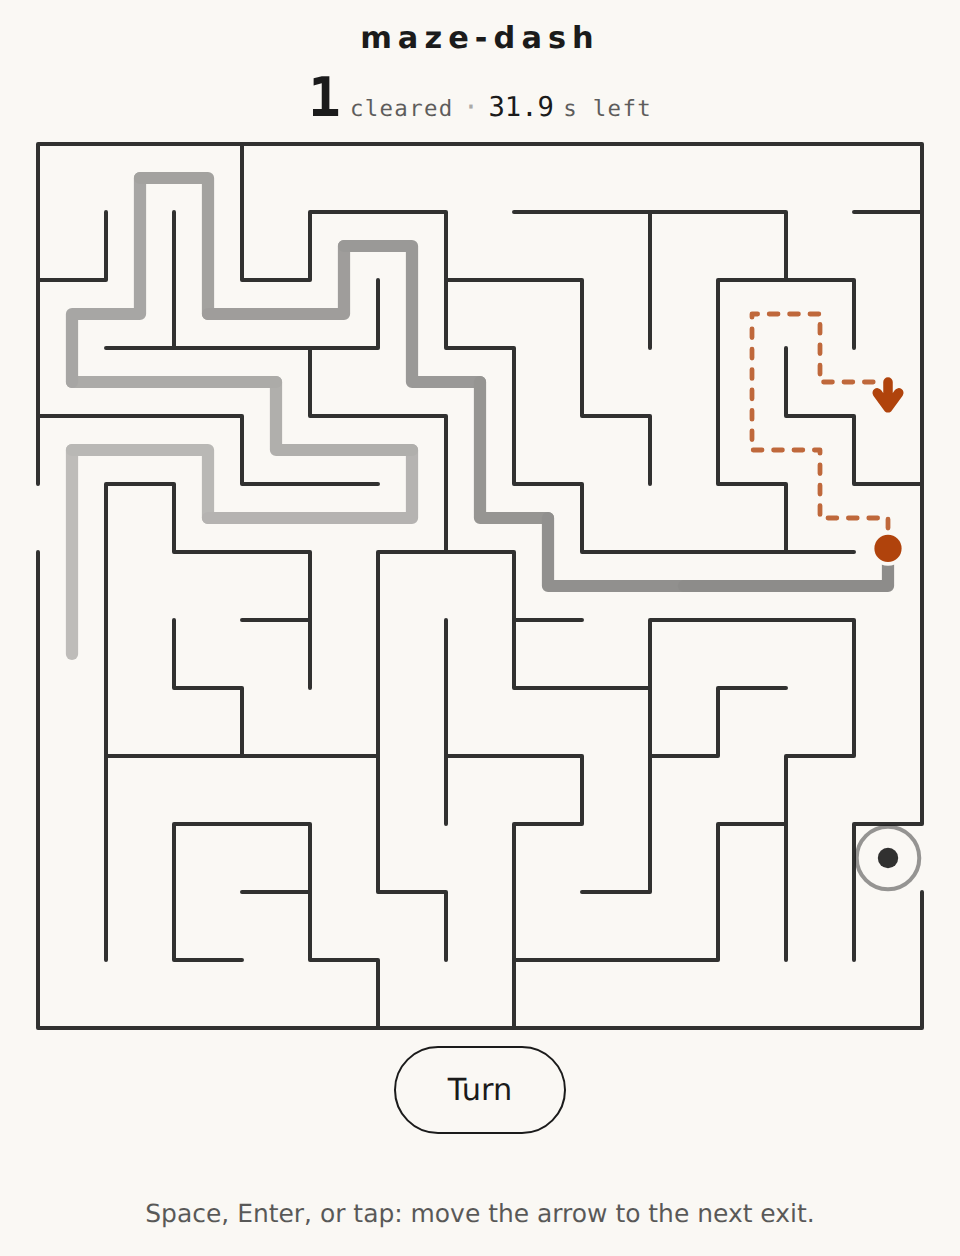
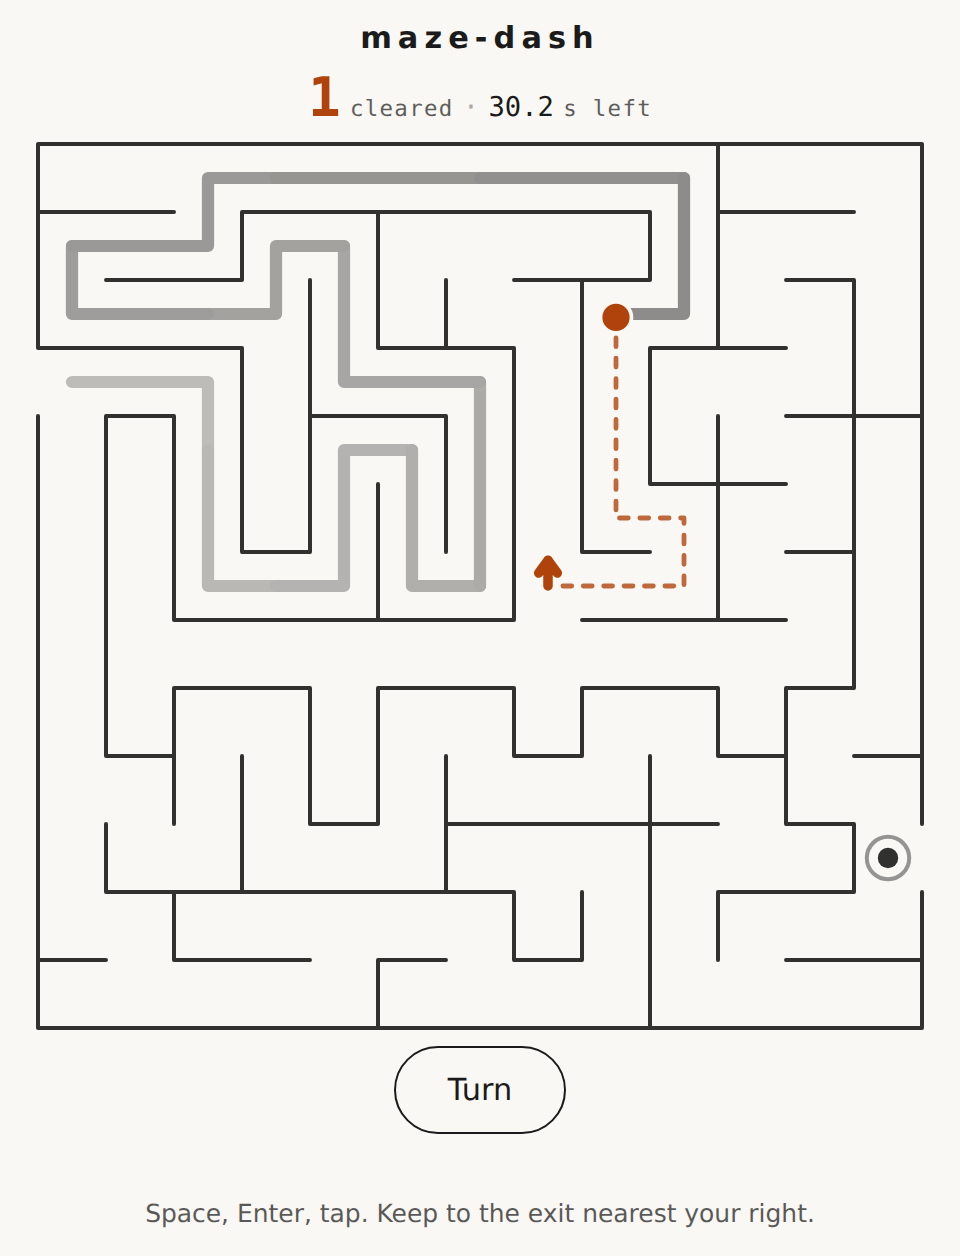
re-shoot the screenshot from the shipped build and describe the capture that is there

diff --git a/README.md b/README.md
@@ -2,7 +2,7 @@
 
 A one-button maze runner: the runner never stops, and the only thing you do is choose which way it turns.
 
-![A 13 by 13 maze in thin black lines on off-white paper. A grey trail winds through the top half of the board, doubling back on itself several times, darkest where the runner has just been and fading out towards its oldest end. The amber runner sits against the right-hand wall at the dark end of that trail. A dashed amber line traces the corridor ahead of it, up and to the left and then back down to the right, ending at an amber arrow that points downward. A small ringed cell sits against the right-hand wall near the bottom. The HUD above reads 1 cleared and 31.9 seconds left, and the button below says Turn.](screenshot.png)
+![A 13 by 13 maze in thin dark lines on off-white paper. A grey trail loops through the top half of the board and doubles back on itself several times; it is darkest where the runner is and fades almost to paper at its oldest end. The amber runner is a filled dot at that dark end, above and to the right of the middle of the board. A dashed amber line runs down from the runner, steps right, drops a little further and runs left, ending at an amber arrow in the middle of the board that points up. A small ringed cell sits against the right-hand wall about four fifths of the way down. The HUD above the board reads 1 cleared and 30.2 s left, the button below it says Turn, and the hint under the button reads: Space, Enter, tap. Keep to the exit nearest your right.](screenshot.png)
 
 **[Live demo](https://yinggarykairui.github.io/maze-dash/)**
 
